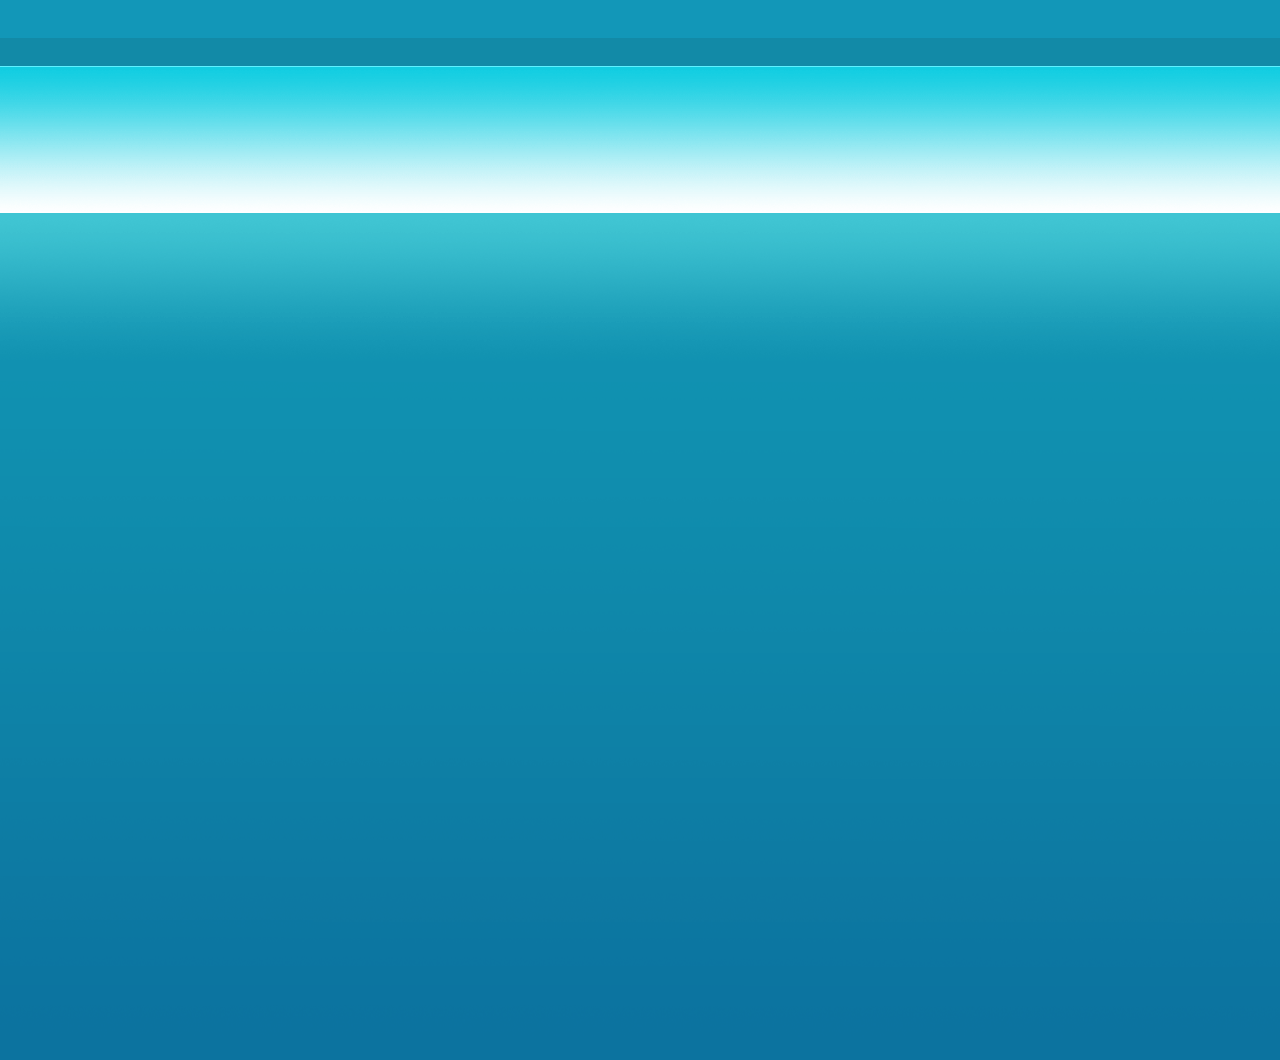
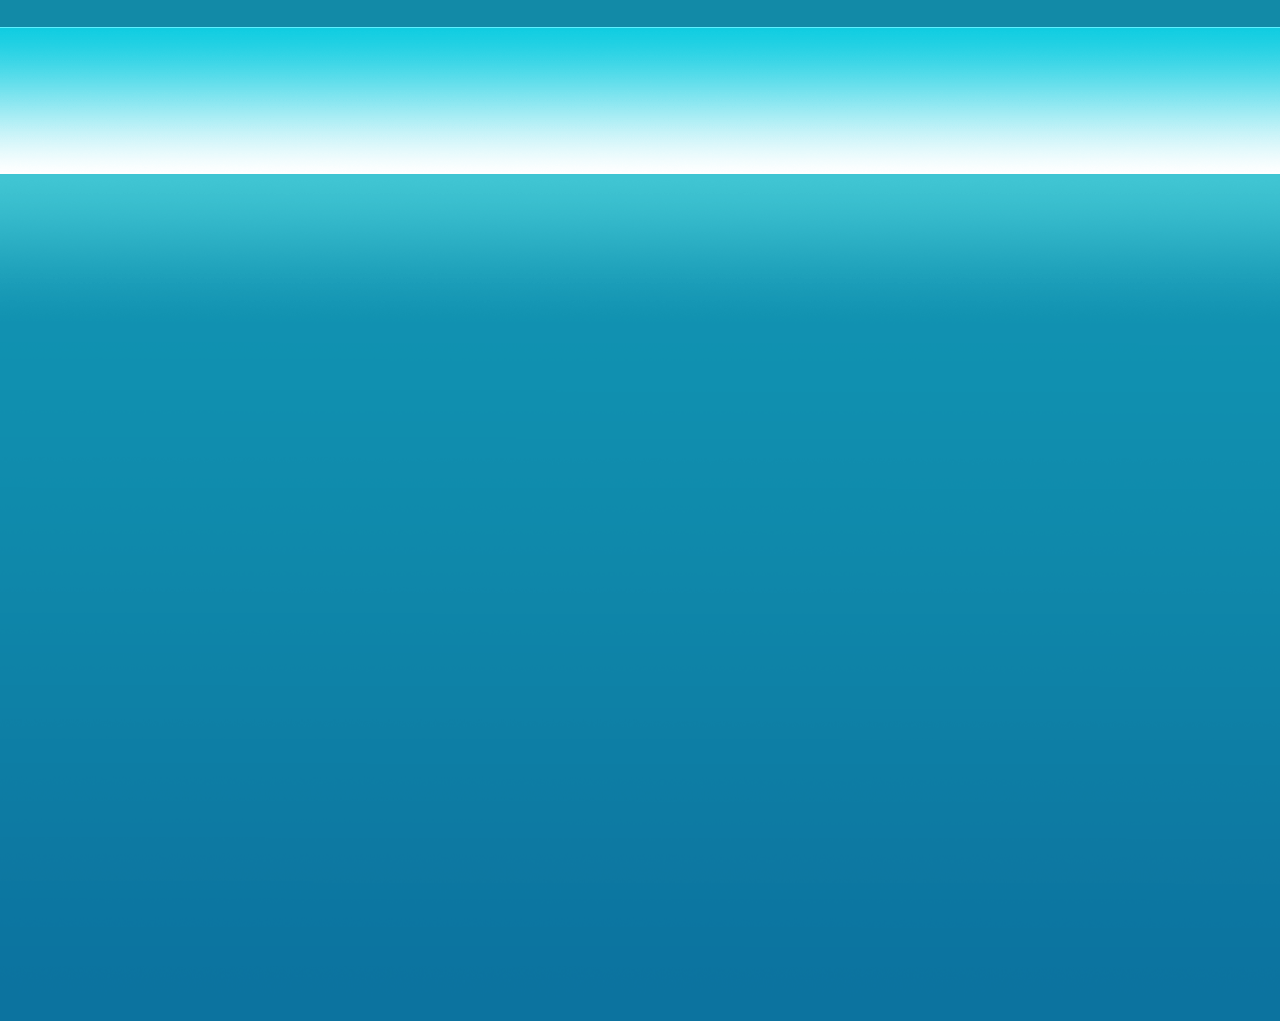
hm4

Changed region(s): [[0.0, 0.0, 1.0, 0.2125]]

diff --git a/module4/css/style.css b/module4/css/style.css
@@ -1,85 +1,84 @@
 body{
 	background-image: url(../img/background.png);
 	background-repeat: repeat-x;
-	height: 1040px;
+	height: 1021px;
 	width: 1920px;
+
 }
 .main{
-	background-image: url(../img/whitemain.png);
 	position: relative;
-	left: 288px;
-	background-repeat: no-repeat;
-	width: 1280px;
-	height: 1000px;
-	overflow: hidden; 
+	width: 1000px;
+	margin: 0 auto;
+	background-color: #ffffff;
+	background-position: center;
+	overflow: hidden;
+    -webkit-box-shadow: -1px 6px 6px 1px rgba(0,0,0,0.75);
+    -moz-box-shadow: -1px 6px 6px 1px rgba(0,0,0,0.75);
+    box-shadow: -1px 6px 6px 1px rgba(0,0,0,0.75);
 }
 .logo{
+	float: left; 
+	height: 173px;
+	width: 309px;
 	background-image: url(../img/logo.png);
 	background-repeat: no-repeat;
-	height: 164px;
-	width: 283px;
-	position: absolute;
-	top: 50px;
-	left: 155px;
 }
-.logotext{
-	font-size: 12px;
-    font-family: "Tahoma";
-    color: rgb(18, 138, 167);
-    line-height: 1.2;
-	position: absolute;
-	left: 71px;
-	top: 111px;
+.logo:after {
+    display: block;
+    content: ' ';
+    clear: both;
 }
 .contact{
+	float: right;
 	font-size: 12px;
     font-family: "Tahoma";
     color: rgba(18, 138, 167, 0.8);
-    line-height: 1.2;
-	position: absolute;
-	left: 992px;
-	top: 38px;
-	height: 67px;
-	width: 130px;
-	z-index: 10;
+    line-height: 18px;
+	padding-right: 15px;
 }
 .h1{
-	line-height: 2;
+	line-height: 20px;
 	font-weight: bold;
-	
 }
-.image{
+.contact:after {
+    display: block;
+    content: ' ';
+    clear: both;
+}
+.flag{
 	position: absolute;
-	top: 213px;
-	left: 151px;
+	left: 600px;
+	margin: 100px 0 0 0;
+	display:block;
+}
+.flag li{
+	float: left;
+	padding-right: 15px;
+}
+.flag li:after {
+    display: block;
+    content: ' ';
+    clear: both;
+}
+
+.image{
 	width: 1000px;
 	height: 237px;
 	border-top: 1px solid #128aa7;
 	border-bottom: 1px solid #128aa7;
+	z-index: 40;
 }
-
-
 .menu {
 	background-image: url(../img/panel.png);
-	background-repeat: no-repeat;
-	position: absolute;
-	top: 451px;
-	left: 151px;
 	width: 1000px;
-	height: 28px;
-    display: block;
+	height: 34px;
     list-style: none;
 	font-size: 14px;
     font-family: "Tahoma";
-    line-height: 1.2;
-    text-align: left;
+    line-height: 12px;
+    text-align: center;
 }
-. menu ul:after {
-    display: block;
-    content: ' ';
-    clear: both;
-    float: none;
-}
+
 ul.menu > li {
     float: left;
     position: relative;
@@ -95,6 +94,7 @@ ul.menu > li {
     background-color: none;
 }
 .submenu {
+	margin-top: 20px;
 	border-top: 1px solid;
     display: none;
     position: absolute;
@@ -102,6 +102,7 @@ ul.menu > li {
     width: 120px;
 	z-index: 47;
 	box-shadow: 0px 5px 5px 0px rgba(0, 0, 0, 0.75);
+	line-height: 20px;
 }
 .submenu > li {
     display: block;
@@ -118,18 +119,21 @@ ul.menu > li {
 .menu > li:hover > .submenu {
     display: block;
 }
+.menu ul:after {
+    display: block;
+    content: ' ';
+    clear: both;
+    float: none;
+}
 .column{
 	text-align: center;
-	position: relative;
-	top: 478px;
-	left: 151px;
 }
 .leftColumn { 
 	border: 1px solid #c7cacf;
 	font-size: 14px;
     font-family: "Tahoma";
     color: rgb(66, 76, 67);
-    line-height: 1.714;
+    line-height: 23px;
     width: 210px;
     float: left;
     background-color: #edeef0;
@@ -148,12 +152,12 @@ ul.menu > li {
 	font-size: 14px;
     font-family: "Tahoma";
     color: rgb(66, 76, 67);
-    line-height: 1.714;
+    line-height: 23px;
 	background-color: #edeef0;
     width: 208px;
     padding-bottom: 20000px;
     margin-bottom: -20000px;
-    float: left;
+    float: right;
 }
 .rightColumn ul{ 
 	text-align: center;
@@ -164,22 +168,13 @@ ul.menu > li {
 	text-align: center;
 	font-weight: bold;
 	}
-body p{
-	display: inline;
-    font-size: 12px;
-    font-family: "Tahoma";
-    color: rgba(255, 255, 255, 0.8);
-    z-index: 3;
-	position: relative;
-	left: 850px;
-	top: 15px;
+.copyright{
+	margin: 8px;
+	font-size: 12px;
+	color: rgba(255, 255, 255, 0.8);
+	text-align: center;
+	font-family: "Tahoma";
 }
-
-
-
-
-
-
 
 
 

diff --git a/module4/index.html b/module4/index.html
@@ -9,7 +9,6 @@
 <body>
 	<div class="main">
 	  <div class="logo">
-    	<p class="logotext">Путешествия по Азии</p>
 		</div>
         <div class="contact">
 			<ul>
@@ -19,16 +18,27 @@
 				<li>info@asia-holidays.com</li>
 			</ul>
 		</div>
-		<img class="image" src="img/foto1.png">
+		<div class="flag">
+		<ul>
+			<li><a href="#"><img src="img/india.png"></a></li>
+			<li><a href="#"><img src="img/nepal.png"></a></li>
+			<li><a href="#"><img src="img/tibet.png"></a></li>
+			<li><a href="#"><img src="img/bhutan.png"></a></li>
+			<li><a href="#"><img src="img/sri-lanka.png"></a></li>
+			<li><a href="#"><img src="img/maldives.png"></a></li>
+		</ul>
+		</div>
+		<div>
+			 <img class="image" src="img/foto1.png"></div>
   <ul class="menu">
 	<li><a href="#">Главная</a></li>
-    <li><a href=#>Путишествия &#9660;</a>
+    <li><a href=#>Путешествия &#9660;</a>
         <ul class="submenu">
-            <li><a href=#>Путишествие 1</a></li>
-            <li><a href=#>Путишествие 2</a></li>
-            <li><a href=#>Путишествие 3</a></li>
-			<li><a href=#>Путишествие 4</a></li>
-			<li><a href=#>Путишествие 5</a></li>
+            <li><a href=#>Путешествие 1</a></li>
+            <li><a href=#>Путешествие 2</a></li>
+            <li><a href=#>Путешествие 3</a></li>
+			<li><a href=#>Путешествие 4</a></li>
+			<li><a href=#>Путешествие 5</a></li>
         </ul>
     </li>
     <li><a href=#>Услуги &#9660;</a>
@@ -66,7 +76,7 @@ Lorem ipsum dolor sit amet
 Lorem ipsum dolor sit amet
  </div>
  <div class="centerColumn">
- ...текст...
+
  </div>
  <div class="rightColumn">
 	 <ul>Новости</ul>
@@ -93,6 +103,6 @@ Lorem ipsum dolor sit amet
 Lorem ipsum dolor sit amet</div>
 		</div>
 </div>
-<p>Copyright&copy; asia-holidays.com. 2010</p>
+<div class="copyright">Copyright&copy; asia-holidays.com.2010</div>
 </body>
 </html>
